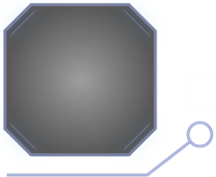
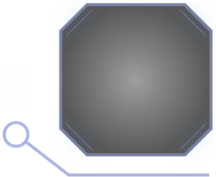
キャラクター装備枠の反転と所持数表示を修正

diff --git a/Assets/_Project/Features/UI/CharacterUI/Scripts/Equipment/EquipmentSlot.cs b/Assets/_Project/Features/UI/CharacterUI/Scripts/Equipment/EquipmentSlot.cs
@@ -1,6 +1,7 @@
 using System;
 using System.Collections.Generic;
 using CreativeAI.Gameplay;
+using DG.Tweening;
 using UnityEngine;
 using UnityEngine.EventSystems;
 using UnityEngine.UI;
@@ -44,6 +45,54 @@ namespace CreativeAI.UI
         public Button Button { get; private set; }
         public event Action<EquipmentSlot> Clicked;
         public event Action<EquipmentSlot> DoubleClicked;
+
+        public void ApplyCustomFrameOrientation(bool mirrored, float duration = 0f)
+        {
+            ResolveViewReferences(false);
+            RectTransform frameRect = _frameView?.FrameRect;
+            if (frameRect == null || _frameView.Role != SlotFrameRole.Custom)
+                return;
+
+            Vector3 frameScale = frameRect.localScale;
+            float frameScaleMagnitude = Mathf.Abs(frameScale.x);
+            float targetScaleX = mirrored ? -frameScaleMagnitude : frameScaleMagnitude;
+            bool orientationChanged = (frameScale.x < 0f) != mirrored;
+
+            Vector2 contentPosition = Vector2.zero;
+            if (mirrored)
+                contentPosition.x = frameRect.anchoredPosition.x * 2f;
+
+            RectTransform iconArea = _iconView?.FitRect;
+            RectTransform iconRect = _iconView?.IconRect;
+            RectTransform emptyRect = _emptyView?.EmptyRect;
+
+            frameRect.DOKill();
+            iconArea?.DOKill();
+            iconRect?.DOKill();
+            emptyRect?.DOKill();
+
+            if (duration > 0f && orientationChanged && Application.isPlaying)
+            {
+                frameRect.DOScaleX(targetScaleX, duration).SetEase(Ease.InOutSine);
+                iconArea?.DOAnchorPos(contentPosition, duration).SetEase(Ease.InOutSine);
+                iconRect
+                    ?.DOAnchorPos(contentPosition, duration)
+                    .SetEase(Ease.InOutSine)
+                    .OnComplete(() => _iconView?.RefreshLayout());
+                emptyRect?.DOAnchorPos(contentPosition, duration).SetEase(Ease.InOutSine);
+            }
+            else
+            {
+                frameScale.x = targetScaleX;
+                frameRect.localScale = frameScale;
+                if (iconArea != null)
+                    iconArea.anchoredPosition = contentPosition;
+                if (emptyRect != null)
+                    emptyRect.anchoredPosition = contentPosition;
+            }
+
+            _iconView?.RefreshLayout();
+        }
 
         public new ItemData Item
         {

diff --git a/Assets/_Project/Features/UI/CharacterUI/Scripts/Shared/TriangleLayout.cs b/Assets/_Project/Features/UI/CharacterUI/Scripts/Shared/TriangleLayout.cs
@@ -20,6 +20,10 @@ namespace CreativeAI.UI
         [SerializeField]
         private Ease _ease = Ease.InOutQuint;
 
+        [SerializeField]
+        [Tooltip("右側へ配置したCustom枠だけを水平反転します。")]
+        private bool _mirrorCustomFrameOnRight;
+
         // 現在の頂点インデックス（0=上, 1=左下, 2=右下）
         // _offsetIndex=0 のとき子[0]が上、子[1]が左下、子[2]が右下
         private int _offsetIndex = 0;
@@ -157,6 +161,7 @@ namespace CreativeAI.UI
                 // 子iは頂点 (i + _offsetIndex) % 3 へ移動
                 int vertexIndex = (i + _offsetIndex) % 3;
                 Vector2 target = GetVertex(vertexIndex);
+                ApplyFrameOrientation(child, target, true);
 
                 if (child is RectTransform rt)
                 {
@@ -210,6 +215,7 @@ namespace CreativeAI.UI
 
                 int vertexIndex = (i + _offsetIndex) % 3;
                 Vector2 pos = GetVertex(vertexIndex);
+                ApplyFrameOrientation(child, pos, false);
 
                 if (child is RectTransform rt)
                     rt.anchoredPosition = pos;
@@ -218,6 +224,35 @@ namespace CreativeAI.UI
 
                 i++;
             }
+        }
+
+        private void ApplyFrameOrientation(Transform slot, Vector2 position, bool animated)
+        {
+            if (!_mirrorCustomFrameOnRight || slot == null)
+                return;
+
+            var frameView = slot.GetComponentInChildren<SlotFrameView>(true);
+            if (frameView == null || frameView.Role != SlotFrameRole.Custom)
+                return;
+
+            var equipmentSlot = slot.GetComponent<EquipmentSlot>();
+            if (equipmentSlot != null)
+            {
+                equipmentSlot.ApplyCustomFrameOrientation(
+                    position.x > 0f,
+                    animated ? _animationDuration : 0f
+                );
+                return;
+            }
+
+            RectTransform frameRect = frameView.FrameRect;
+            if (frameRect == null)
+                return;
+
+            Vector3 scale = frameRect.localScale;
+            float scaleMagnitude = Mathf.Abs(scale.x);
+            scale.x = position.x > 0f ? -scaleMagnitude : scaleMagnitude;
+            frameRect.localScale = scale;
         }
 
 #if UNITY_EDITOR

diff --git a/Assets/_Project/Features/UI/Common/Scripts/Slots/SlotCountBadgeView.cs b/Assets/_Project/Features/UI/Common/Scripts/Slots/SlotCountBadgeView.cs
@@ -62,6 +62,7 @@ namespace CreativeAI.UI
         private Vector2 _normalizedPosition = new(0.78f, 0.15f);
 
         private bool _hasWarnedMissingReferences;
+        private bool _layoutRefreshPending;
 
         public bool HasRequiredReferences => ResolveReferences();
         public bool IsVisible => _container != null && _container.gameObject.activeSelf;
@@ -92,6 +93,7 @@ namespace CreativeAI.UI
             _containerCanvasGroup.alpha = 1f;
             _countTextCanvasGroup.alpha = 1f;
             RefreshLayout();
+            _layoutRefreshPending = true;
             _countText.ForceMeshUpdate();
         }
 
@@ -102,7 +104,10 @@ namespace CreativeAI.UI
 
             float slotShortEdge = Mathf.Min(_frameRect.rect.width, _frameRect.rect.height);
             if (slotShortEdge <= 0f)
+            {
+                _layoutRefreshPending = true;
                 return;
+            }
 
             float badgeHeight = Mathf.Clamp(
                 slotShortEdge * _badgeRatio,
@@ -131,6 +136,16 @@ namespace CreativeAI.UI
             _container.SetSizeWithCurrentAnchors(RectTransform.Axis.Vertical, badgeHeight);
             _container.position = worldPosition;
             _backgroundImage.enabled = false;
+            _layoutRefreshPending = false;
+        }
+
+        private void LateUpdate()
+        {
+            if (_layoutRefreshPending && IsVisible)
+            {
+                Canvas.ForceUpdateCanvases();
+                RefreshLayout();
+            }
         }
 
         private void OnEnable()
@@ -157,6 +172,7 @@ namespace CreativeAI.UI
             _countText.gameObject.SetActive(false);
             _containerCanvasGroup.alpha = 0f;
             _container.gameObject.SetActive(false);
+            _layoutRefreshPending = false;
         }
 
         public void AnimateAppear(float duration)

diff --git a/Assets/_Project/Features/UI/InventoryUI/Scripts/InventoryView/InventoryView.Slots.cs b/Assets/_Project/Features/UI/InventoryUI/Scripts/InventoryView/InventoryView.Slots.cs
@@ -8,6 +8,7 @@ namespace CreativeAI.UI.InventoryUI
 {
     public partial class InventoryView
     {
+        private const float InitialSlotScale = 0.82f;
         private Tween _scrollTween;
 
         public void SetReleaseSelectionOnOutsideClick(bool release)
@@ -61,15 +62,17 @@ namespace CreativeAI.UI.InventoryUI
             slot.transform.SetAsLastSibling();
             slot.transform.DOKill();
             slot.SetReleaseSelectionOnOutsideClick(_releaseSelectionOnOutsideClick);
+            slot.SetShowCount(_showItemCounts);
             slot.SetItem(stack);
             slot.SetCraftAssigned(IsCraftAssigned(stack));
             _visibleSlots.Add(slot);
 
-            slot.transform.localScale = Vector3.zero;
+            slot.transform.localScale = Vector3.one * InitialSlotScale;
             slot.transform.DOScale(Vector3.one, 0.2f)
                 .SetEase(Ease.OutBack)
                 .SetDelay(0.05f * index)
-                .SetUpdate(true);
+                .SetUpdate(true)
+                .OnComplete(slot.RefreshCountLayout);
 
             return slot;
         }
@@ -165,6 +168,9 @@ namespace CreativeAI.UI.InventoryUI
 
             Canvas.ForceUpdateCanvases();
             LayoutRebuilder.ForceRebuildLayoutImmediate(contentRect);
+            Canvas.ForceUpdateCanvases();
+            foreach (var slot in _visibleSlots)
+                slot?.RefreshCountLayout();
 
             if (scrollRect == null)
                 return;

diff --git a/Assets/_Project/Features/UI/InventoryUI/Scripts/Slots/ItemSlot.cs b/Assets/_Project/Features/UI/InventoryUI/Scripts/Slots/ItemSlot.cs
@@ -9,6 +9,7 @@ namespace CreativeAI.UI.InventoryUI
     {
         private ItemStack _itemStack;
         private InventoryView _controller;
+        private bool _showCount = true;
 
         [SerializeField]
         private RectTransform _visualRootRect;
@@ -31,7 +32,7 @@ namespace CreativeAI.UI.InventoryUI
         private readonly HashSet<string> _warnedMissingViews = new();
 
         protected override SlotIconView IconView => _iconView;
-        protected override SlotCountBadgeView CountBadgeView => _countBadgeView;
+        protected override SlotCountBadgeView CountBadgeView => _showCount ? _countBadgeView : null;
         protected override SlotHoverView HoverView => _hoverView;
         protected override SlotFrameView FrameView => _frameView;
 
@@ -59,6 +60,17 @@ namespace CreativeAI.UI.InventoryUI
         }
 
         public ItemStack Stack => _itemStack;
+
+        public void SetShowCount(bool show)
+        {
+            _showCount = show;
+            if (show)
+                _countBadgeView?.SetCount(_item, _count);
+            else
+                _countBadgeView?.Hide();
+        }
+
+        public void RefreshCountLayout() => _countBadgeView?.RefreshLayout();
 
         public void SetReleaseSelectionOnOutsideClick(bool release)
         {

diff --git a/Assets/_Project/Features/UI/InventoryUI/Scripts/InventoryView/InventoryView.cs b/Assets/_Project/Features/UI/InventoryUI/Scripts/InventoryView/InventoryView.cs
@@ -23,6 +23,9 @@ namespace CreativeAI.UI.InventoryUI
         [SerializeField]
         private bool _selectFirstSlotOnRefresh = true;
 
+        [SerializeField]
+        private bool _showItemCounts = true;
+
         private bool _releaseSelectionOnOutsideClick = true;
 
         [Header("Tab")]
@@ -66,6 +69,13 @@ namespace CreativeAI.UI.InventoryUI
 
         public void SetSelectFirstSlotOnRefresh(bool selectFirst) =>
             _selectFirstSlotOnRefresh = selectFirst;
+
+        public void SetShowItemCounts(bool show)
+        {
+            _showItemCounts = show;
+            foreach (var slot in _pooledSlots)
+                slot?.SetShowCount(show);
+        }
 
         public void SetInteractionEnabled(bool enabled)
         {

diff --git a/Assets/_Project/Features/UI/Common/Scripts/Slots/SlotIconView.cs b/Assets/_Project/Features/UI/Common/Scripts/Slots/SlotIconView.cs
@@ -27,6 +27,8 @@ namespace CreativeAI.UI
 
         public bool HasRequiredReferences => ResolveImage();
         public bool IsVisible => _image != null && _image.gameObject.activeSelf;
+        public RectTransform FitRect => _fitRect;
+        public RectTransform IconRect => _image != null ? _image.rectTransform : null;
 
         public void SetIcon(ItemData item) => SetIcon(item != null ? item.icon : null);
 

diff --git a/Assets/_Project/Features/UI/CharacterUI/Scripts/Equipment/EquipmentViewController.cs b/Assets/_Project/Features/UI/CharacterUI/Scripts/Equipment/EquipmentViewController.cs
@@ -217,6 +217,7 @@ namespace CreativeAI.UI.CharacterUI
         private void ConfigureInventory()
         {
             _inventory?.SetSelectFirstSlotOnRefresh(false);
+            _inventory?.SetShowItemCounts(_assignmentMode == AssignmentMode.QuickConsumable);
         }
 
         private bool IsSlotInputLocked()

diff --git a/Assets/_Project/Features/UI/Common/Scripts/Slots/SlotEmptyView.cs b/Assets/_Project/Features/UI/Common/Scripts/Slots/SlotEmptyView.cs
@@ -9,6 +9,9 @@ namespace CreativeAI.UI
 
         private bool _hasWarnedMissingEmptyObject;
 
+        public RectTransform EmptyRect =>
+            _emptyObject != null ? _emptyObject.transform as RectTransform : null;
+
         public void SetEmpty(bool empty)
         {
             if (!ResolveEmptyObject())
